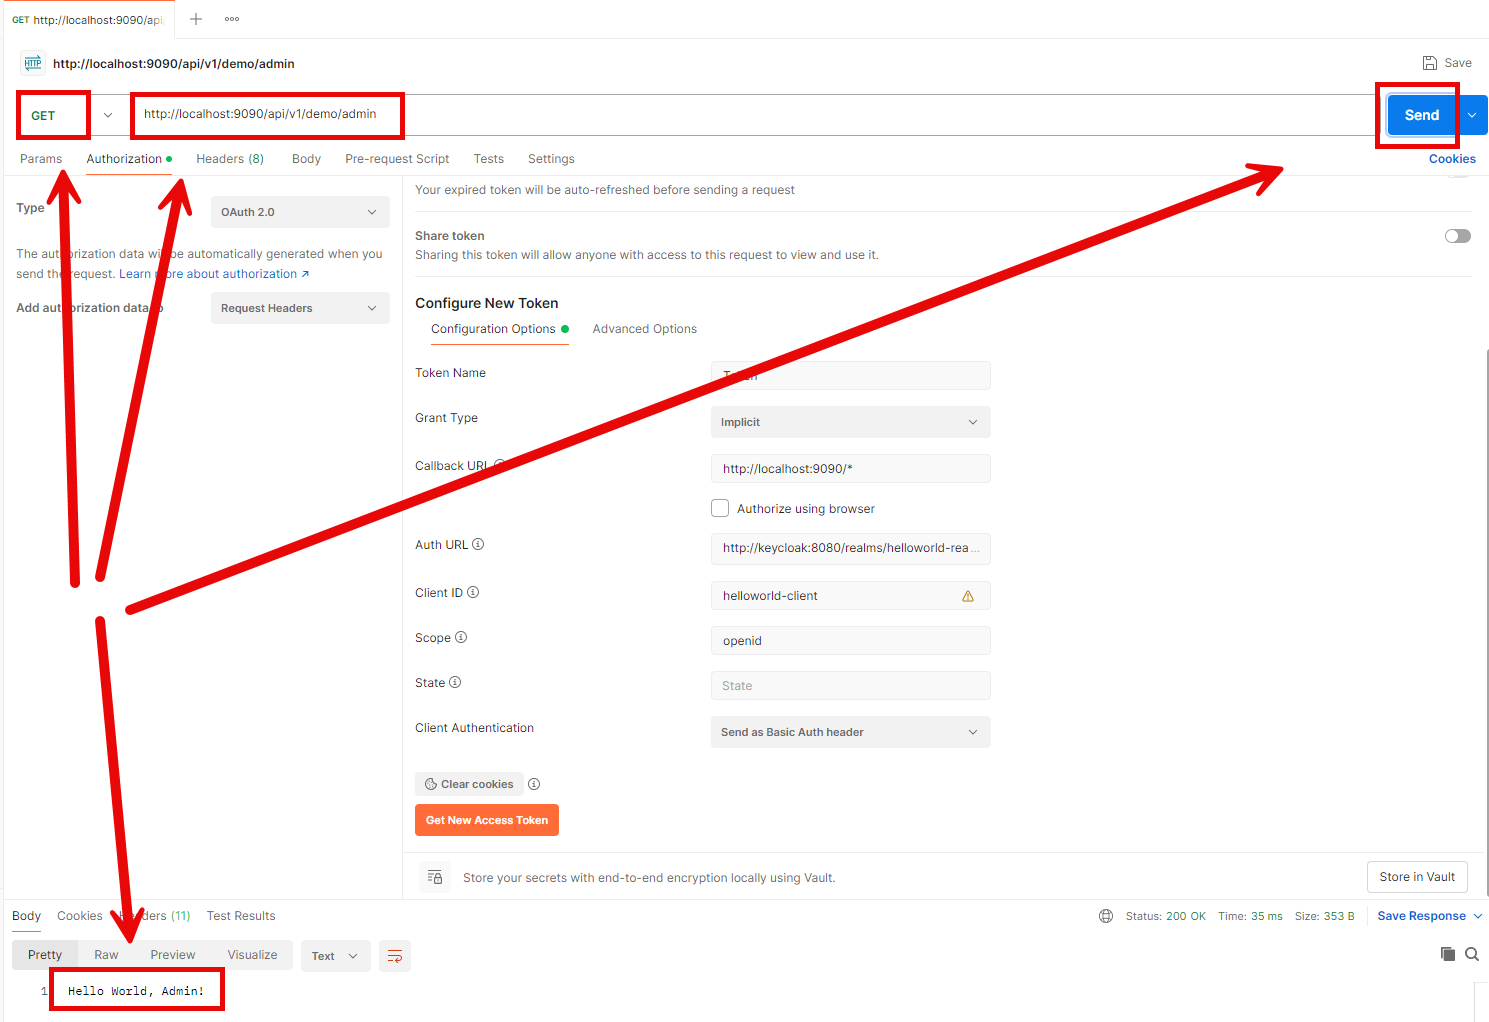
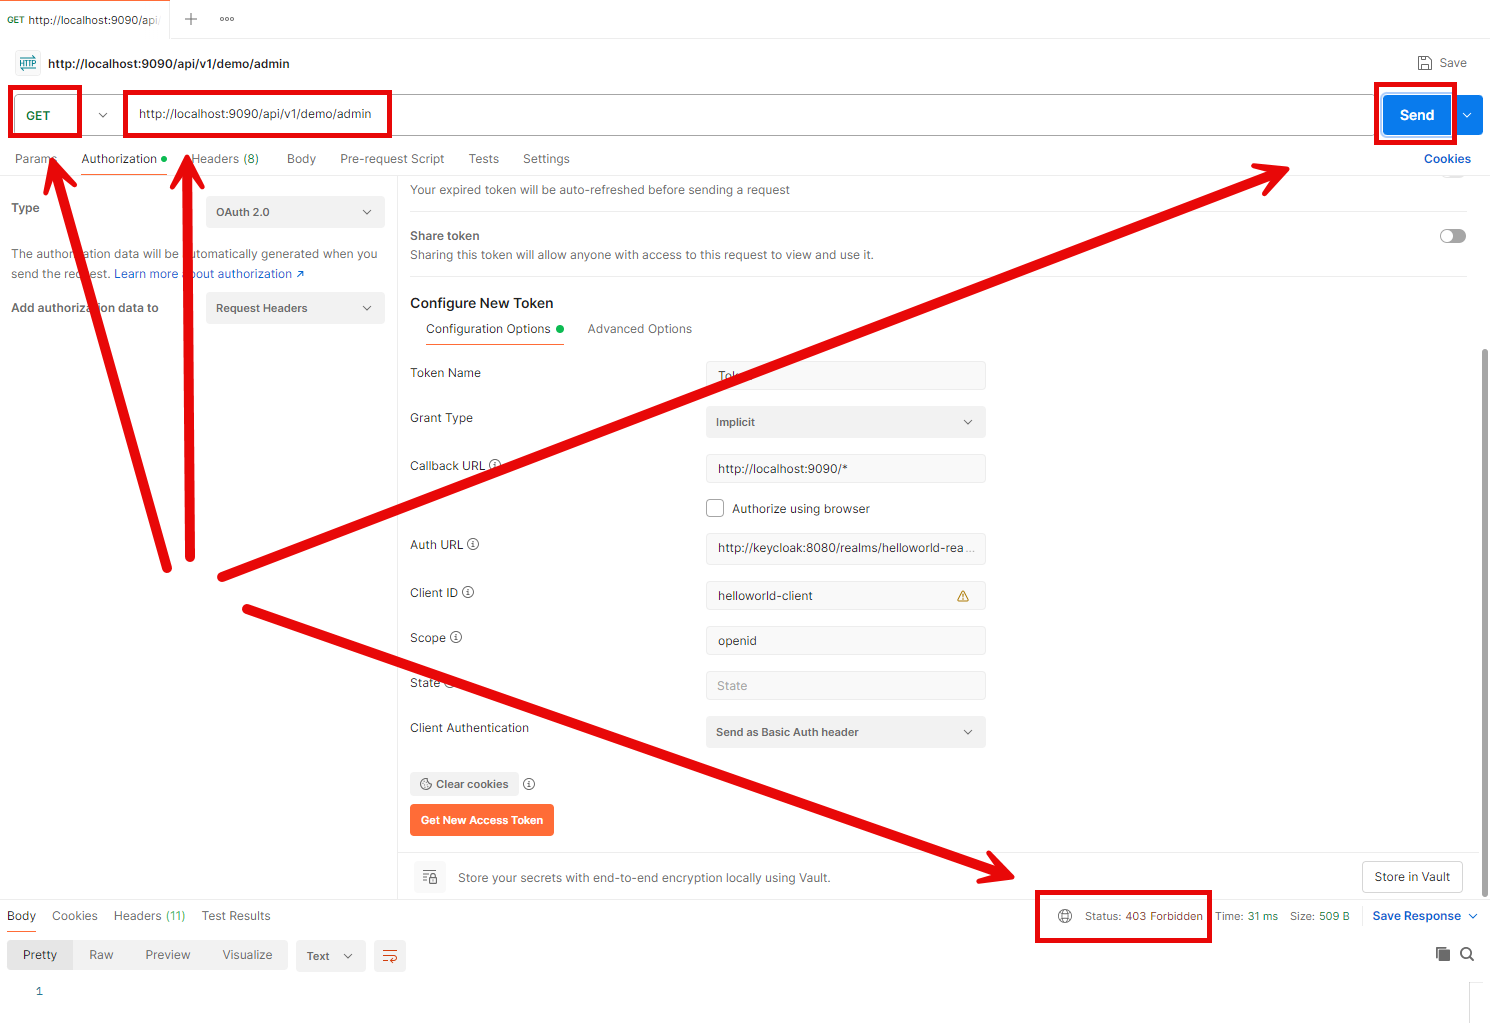
Update Usage Docker Compose

diff --git a/others/security/keycloak/api/springboot3-api-rest-security-resourceserver-implicit-keycloak-roles/README.md b/others/security/keycloak/api/springboot3-api-rest-security-resourceserver-implicit-keycloak-roles/README.md
@@ -59,21 +59,30 @@ USAGE DOCKER COMPOSE
 * **Docker** (tested on version 4.33.1)
 
 ##### Required steps:
+1. Update **hosts** file (Run as Administrator; Windows: "Windows\System32\drivers\etc\hosts"; MAC/Linux: "etc/hosts") with new line **127.0.0.1 keycloak**
 1. Start **Docker** tool
 1. In a command line tool **start Docker containers** with `docker-compose up -d --build`
-1. In a browser visit **Keycloak** console with `http://localhost:8080`
-   * Use credentials admin/admin and configure Realm, Client and User (please check section **Keycloak Configuration**)
-1. In a browser visit **Keycloak** to get **authorization code** with `http://localhost:8080/realms/helloworld-realm/protocol/openid-connect/auth?response_type=token&client_id=helloworld-client`
-   * Log in using credentials **user/user**
-   * Expected access_token
-1. In any REST Client (e.g. Postman) visit **REST API** application with `http://localhost:9090/api/v1/demo`
-   * Expected "Hello World!" message
-1. In any REST Client (e.g. Postman) visit **REST API** application with `http://localhost:9090/api/v1/demo/user`
-   * Bearer Token: access_token
+1. In any REST Client (e.g. Postman) visit **Keycloack** with `http://localhost:9090/api/v1/demo/user`
+   * Authorization -> OAuth 2.0
+   * Grant Type: **Implicit**
+   * Callback URL: http://localhost:9090/*
+   * Auth URL: **http://keycloak:8080/realms/helloworld-realm/protocol/openid-connect/auth**
+   * Client Id: **helloworld-client**
+   * Scope: **openid**
+   * Click **Get New Access Token**
+   * Expected **Login** page with **Registration** link
+   * Register new user
+   * Expected JWT token
+1. In any REST Client (e.g. Postman) visit **REST API** application with (method **GET**) `http://localhost:9090/api/v1/demo/user`
+   * Bearer Token: JWT token
    * Expected "Hello World, User!" message
+1. In any REST Client (e.g. Postman) visit **REST API** application with (method **GET**) `http://localhost:9090/api/v1/demo/admin`
+   * Bearer Token: JWT token
+   * Expected Status 403 Forbidden
 1. Clean up environment 
      * In a command line tool **remove Docker containers** with `docker-compose down --rmi all`
      * Stop **Docker** tool
+     * Remove new line from **hosts**
 
 ##### Optional steps:
 1. In a command line tool validate Docker Compose with `docker-compose config`
